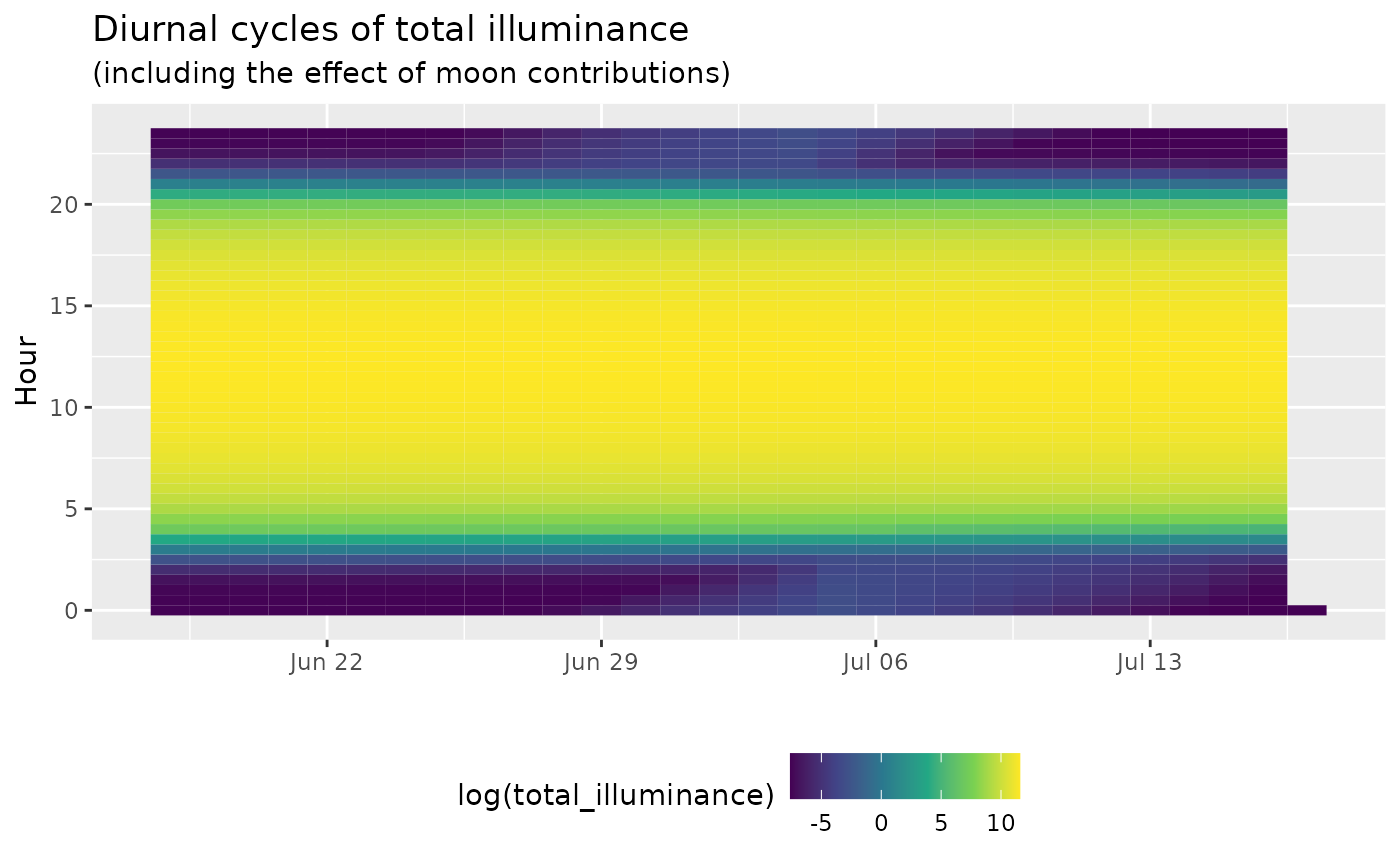
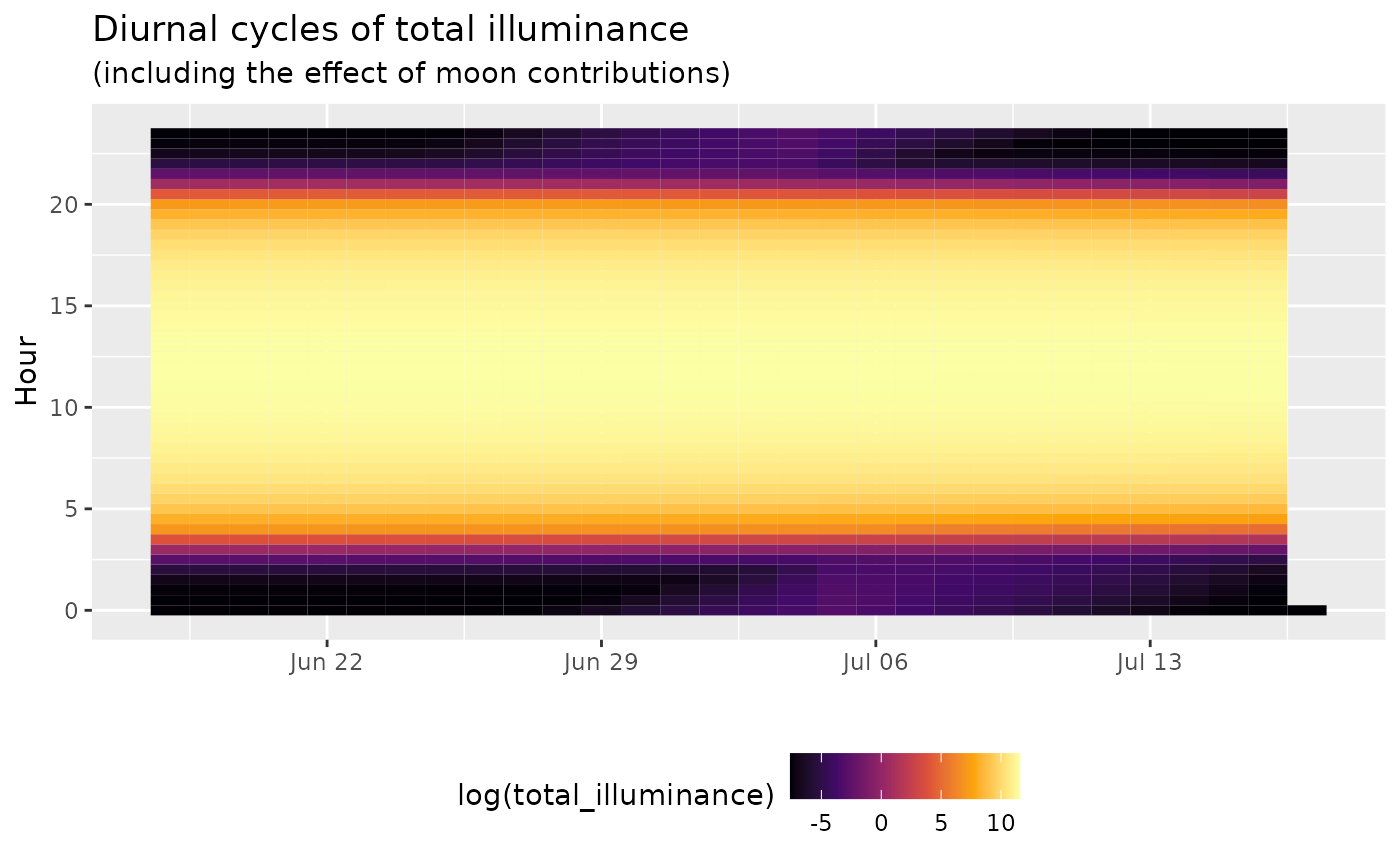
update docs

diff --git a/docs/articles/skylight_advanced.html b/docs/articles/skylight_advanced.html
@@ -205,7 +205,7 @@ use with the <code>skylight</code> package.</p>
 <span>    <span class="co"># values of cloud cover lower than</span></span>
 <span>    <span class="co"># 30% are considered clear conditions</span></span>
 <span>    <span class="co"># for the skylight model - adjust tcc values</span></span>
-<span>    tcc <span class="op">=</span> <span class="fu"><a href="https://rdrr.io/r/base/ifelse.html" class="external-link">ifelse</a></span><span class="op">(</span><span class="va">tcc</span> <span class="op">&lt;=</span> <span class="fl">0.3</span>, <span class="fl">0</span>, <span class="fl">1</span><span class="op">)</span>,</span>
+<span>    tcc <span class="op">=</span> <span class="fu"><a href="https://rdrr.io/r/base/ifelse.html" class="external-link">ifelse</a></span><span class="op">(</span><span class="va">tcc</span> <span class="op">&lt;=</span> <span class="fl">0.3</span>, <span class="fl">1</span>, <span class="va">tcc</span><span class="op">)</span>,</span>
 <span>    <span class="co"># rescale total cloud cover between 1 - 10</span></span>
 <span>    <span class="co"># the acceptable range for skylight's</span></span>
 <span>    <span class="co"># sky_condition parameter</span></span>
@@ -215,13 +215,13 @@ use with the <code>skylight</code> package.</p>
 <span>  <span class="fu"><a href="../reference/skylight.html">skylight</a></span><span class="op">(</span><span class="op">)</span></span>
 <span></span>
 <span><span class="fu"><a href="https://rdrr.io/r/base/print.html" class="external-link">print</a></span><span class="op">(</span><span class="fu"><a href="https://rdrr.io/pkg/terra/man/headtail.html" class="external-link">head</a></span><span class="op">(</span><span class="va">df</span><span class="op">)</span><span class="op">)</span></span>
-<span><span class="co">#&gt;   longitude latitude tcc                date sky_condition sun_azimuth</span></span>
-<span><span class="co">#&gt; 1    -20.00       70   1 2021-02-01 17:00:00      9.898097         229</span></span>
-<span><span class="co">#&gt; 2    -19.75       70   1 2021-02-01 17:00:00      9.977752         229</span></span>
-<span><span class="co">#&gt; 3    -19.50       70   1 2021-02-01 17:00:00      9.947538         229</span></span>
-<span><span class="co">#&gt; 4    -19.25       70   1 2021-02-01 17:00:00      9.675888         229</span></span>
-<span><span class="co">#&gt; 5    -19.00       70   1 2021-02-01 17:00:00      9.475928         230</span></span>
-<span><span class="co">#&gt; 6    -18.75       70   1 2021-02-01 17:00:00      9.474829         230</span></span>
+<span><span class="co">#&gt;   longitude latitude       tcc                date sky_condition sun_azimuth</span></span>
+<span><span class="co">#&gt; 1    -20.00       70 0.9886775 2021-02-01 17:00:00      9.898097         229</span></span>
+<span><span class="co">#&gt; 2    -19.75       70 0.9975280 2021-02-01 17:00:00      9.977752         229</span></span>
+<span><span class="co">#&gt; 3    -19.50       70 0.9941709 2021-02-01 17:00:00      9.947538         229</span></span>
+<span><span class="co">#&gt; 4    -19.25       70 0.9639876 2021-02-01 17:00:00      9.675888         229</span></span>
+<span><span class="co">#&gt; 5    -19.00       70 0.9417698 2021-02-01 17:00:00      9.475928         230</span></span>
+<span><span class="co">#&gt; 6    -18.75       70 0.9416477 2021-02-01 17:00:00      9.474829         230</span></span>
 <span><span class="co">#&gt;   sun_altitude sun_illuminance moon_azimuth moon_altitude moon_illuminance</span></span>
 <span><span class="co">#&gt; 1           -4        2.511910            2           -18     5.917033e-13</span></span>
 <span><span class="co">#&gt; 2           -4        2.332974            3           -18     5.892869e-13</span></span>
@@ -257,6 +257,7 @@ under varying cloud cover conditions.</p>
 <span>    <span class="op">)</span></span>
 <span>  <span class="op">)</span> <span class="op">+</span></span>
 <span>  <span class="fu"><a href="https://ggplot2.tidyverse.org/reference/scale_viridis.html" class="external-link">scale_fill_viridis_c</a></span><span class="op">(</span></span>
+<span>    option <span class="op">=</span> <span class="st">"B"</span>,</span>
 <span>    name <span class="op">=</span> <span class="st">"Total illuminance (log(lux))"</span></span>
 <span>  <span class="op">)</span> <span class="op">+</span></span>
 <span>  <span class="fu"><a href="https://ggplot2.tidyverse.org/reference/ggsf.html" class="external-link">geom_sf</a></span><span class="op">(</span></span>

diff --git a/docs/reference/skylight.html b/docs/reference/skylight.html
@@ -109,6 +109,13 @@ slope parameter of an empirical fit should render more accurate results.
 (this can be a single value or vector of values)</p></dd>
 
 </dl></div>
+    <div id="value">
+    <h2>Value</h2>
+    
+
+<p>Sun and moon illuminance values (in lux), as well as their respective
+location in the sky (altitude, azimuth).</p>
+    </div>
     <div id="details">
     <h2>Details</h2>
     <p>The code is almost verbatim transcription of the work
@@ -123,6 +130,23 @@ are not trapped.</p>
 location, time and/or sky conditions can be provided.</p>
     </div>
 
+    <div id="ref-examples">
+    <h2>Examples</h2>
+    <div class="sourceCode"><pre class="sourceCode r"><code><span class="r-in"><span> <span class="va">df</span> <span class="op">&lt;-</span> <span class="fu">skylight</span><span class="op">(</span></span></span>
+<span class="r-in"><span>  longitude <span class="op">=</span> <span class="op">-</span><span class="fl">135.8</span>,</span></span>
+<span class="r-in"><span>  latitude <span class="op">=</span> <span class="op">-</span><span class="fl">23.4</span>,</span></span>
+<span class="r-in"><span>  date <span class="op">=</span> <span class="fu"><a href="https://rdrr.io/r/base/as.POSIXlt.html" class="external-link">as.POSIXct</a></span><span class="op">(</span><span class="st">"1986-12-18 21:00:00"</span>, tz <span class="op">=</span> <span class="st">"GMT"</span><span class="op">)</span>,</span></span>
+<span class="r-in"><span>  sky_condition <span class="op">=</span> <span class="fl">1</span></span></span>
+<span class="r-in"><span><span class="op">)</span></span></span>
+<span class="r-in"><span></span></span>
+<span class="r-in"><span><span class="fu"><a href="https://rdrr.io/r/base/print.html" class="external-link">print</a></span><span class="op">(</span><span class="va">df</span><span class="op">)</span></span></span>
+<span class="r-out co"><span class="r-pr">#&gt;</span>   sun_azimuth sun_altitude sun_illuminance moon_azimuth moon_altitude</span>
+<span class="r-out co"><span class="r-pr">#&gt;</span> 1         346           90        123786.3          282           -62</span>
+<span class="r-out co"><span class="r-pr">#&gt;</span>   moon_illuminance moon_fraction total_illuminance</span>
+<span class="r-out co"><span class="r-pr">#&gt;</span> 1     1.066142e-27            94          123786.3</span>
+<span class="r-in"><span></span></span>
+</code></pre></div>
+    </div>
   </div>
   <div class="col-md-3 hidden-xs hidden-sm" id="pkgdown-sidebar">
     <nav id="toc" data-toggle="toc" class="sticky-top"><h2 data-toc-skip>Contents</h2>

diff --git a/docs/articles/skylight.html b/docs/articles/skylight.html
@@ -185,7 +185,9 @@ call.</p>
 <span>      fill <span class="op">=</span> <span class="fu"><a href="https://rdrr.io/r/base/Log.html" class="external-link">log</a></span><span class="op">(</span><span class="va">total_illuminance</span><span class="op">)</span></span>
 <span>    <span class="op">)</span></span>
 <span>  <span class="op">)</span> <span class="op">+</span></span>
-<span>  <span class="fu"><a href="https://ggplot2.tidyverse.org/reference/scale_viridis.html" class="external-link">scale_fill_viridis_c</a></span><span class="op">(</span><span class="op">)</span> <span class="op">+</span></span>
+<span>  <span class="fu"><a href="https://ggplot2.tidyverse.org/reference/scale_viridis.html" class="external-link">scale_fill_viridis_c</a></span><span class="op">(</span></span>
+<span>    option <span class="op">=</span> <span class="st">"B"</span></span>
+<span>  <span class="op">)</span> <span class="op">+</span></span>
 <span>  <span class="fu"><a href="https://ggplot2.tidyverse.org/reference/labs.html" class="external-link">labs</a></span><span class="op">(</span></span>
 <span>    title <span class="op">=</span> <span class="st">"Diurnal cycles of total illuminance"</span>,</span>
 <span>    subtitle <span class="op">=</span> <span class="st">"(including the effect of moon contributions)"</span>,</span>
